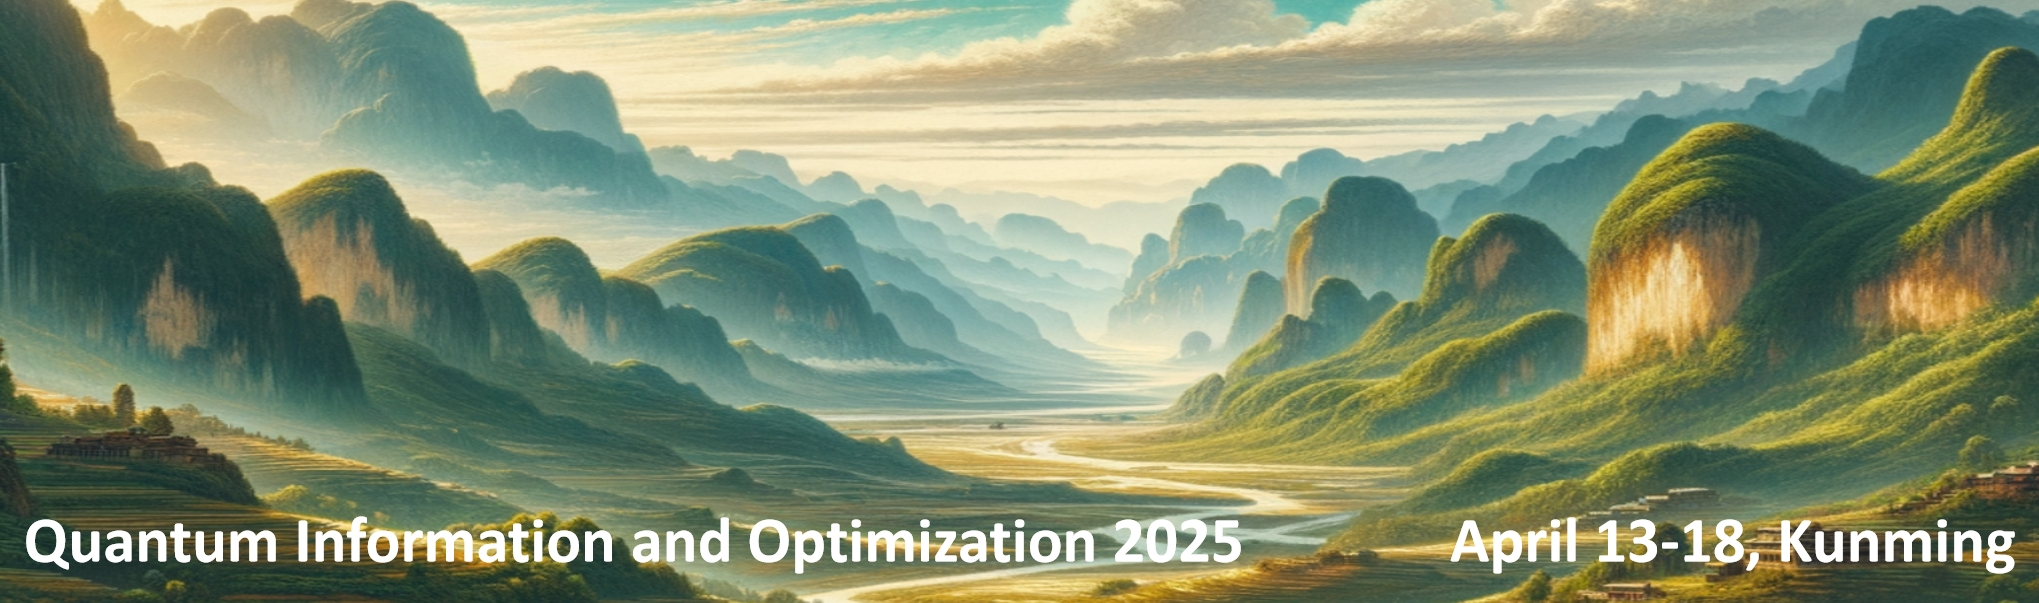
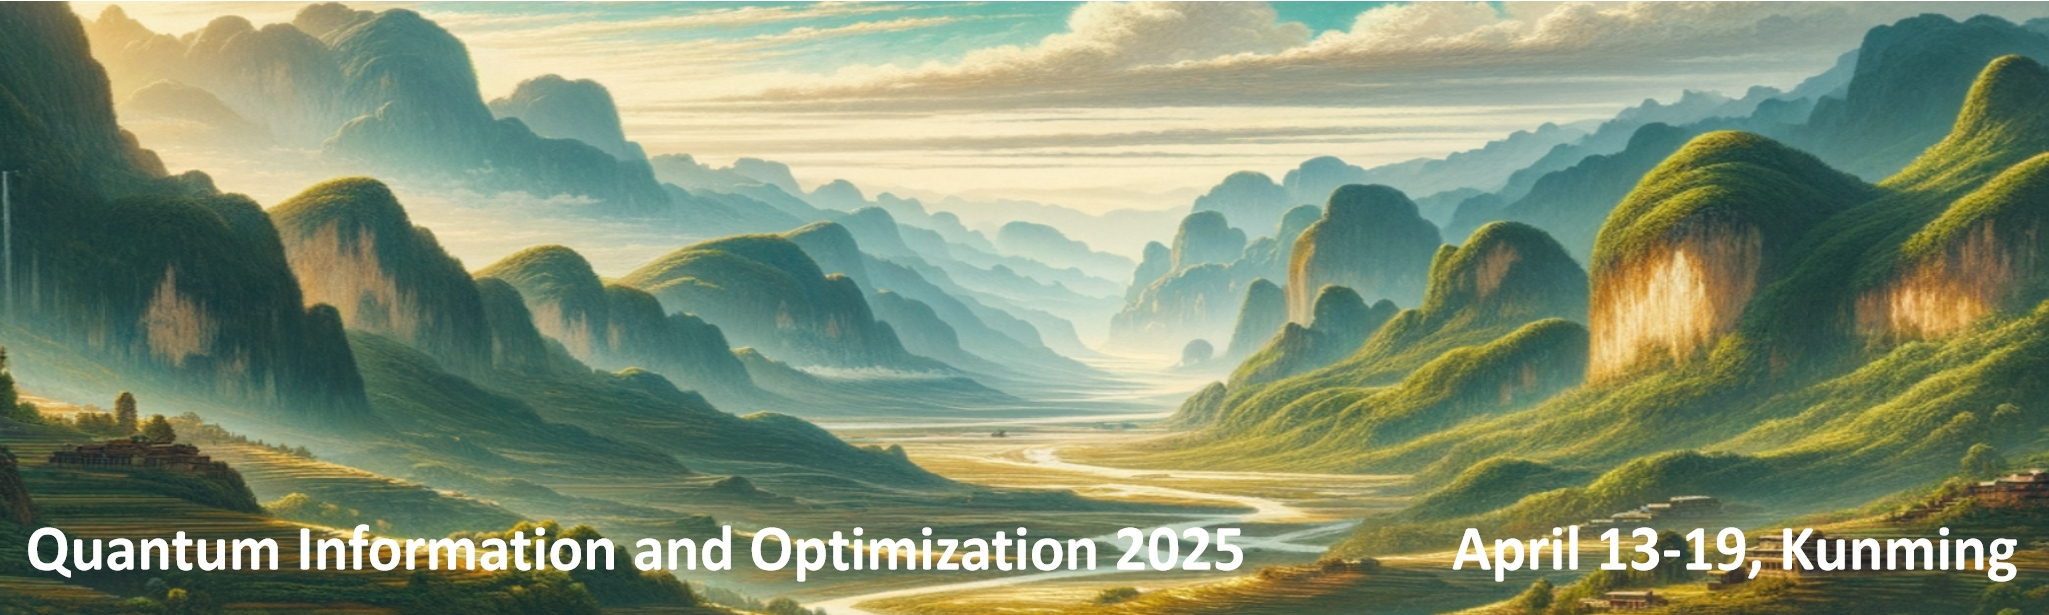
update date

diff --git a/content/Overview.md b/content/Overview.md
@@ -22,7 +22,7 @@ The workshop will take place at TIANYUAN Center ([天元数学国际交流中心
 
 ## Dates
 
-**Workshop: 13 – 18 April 2025**
+**Workshop: 13 – 19 April 2025**
 
 
 
